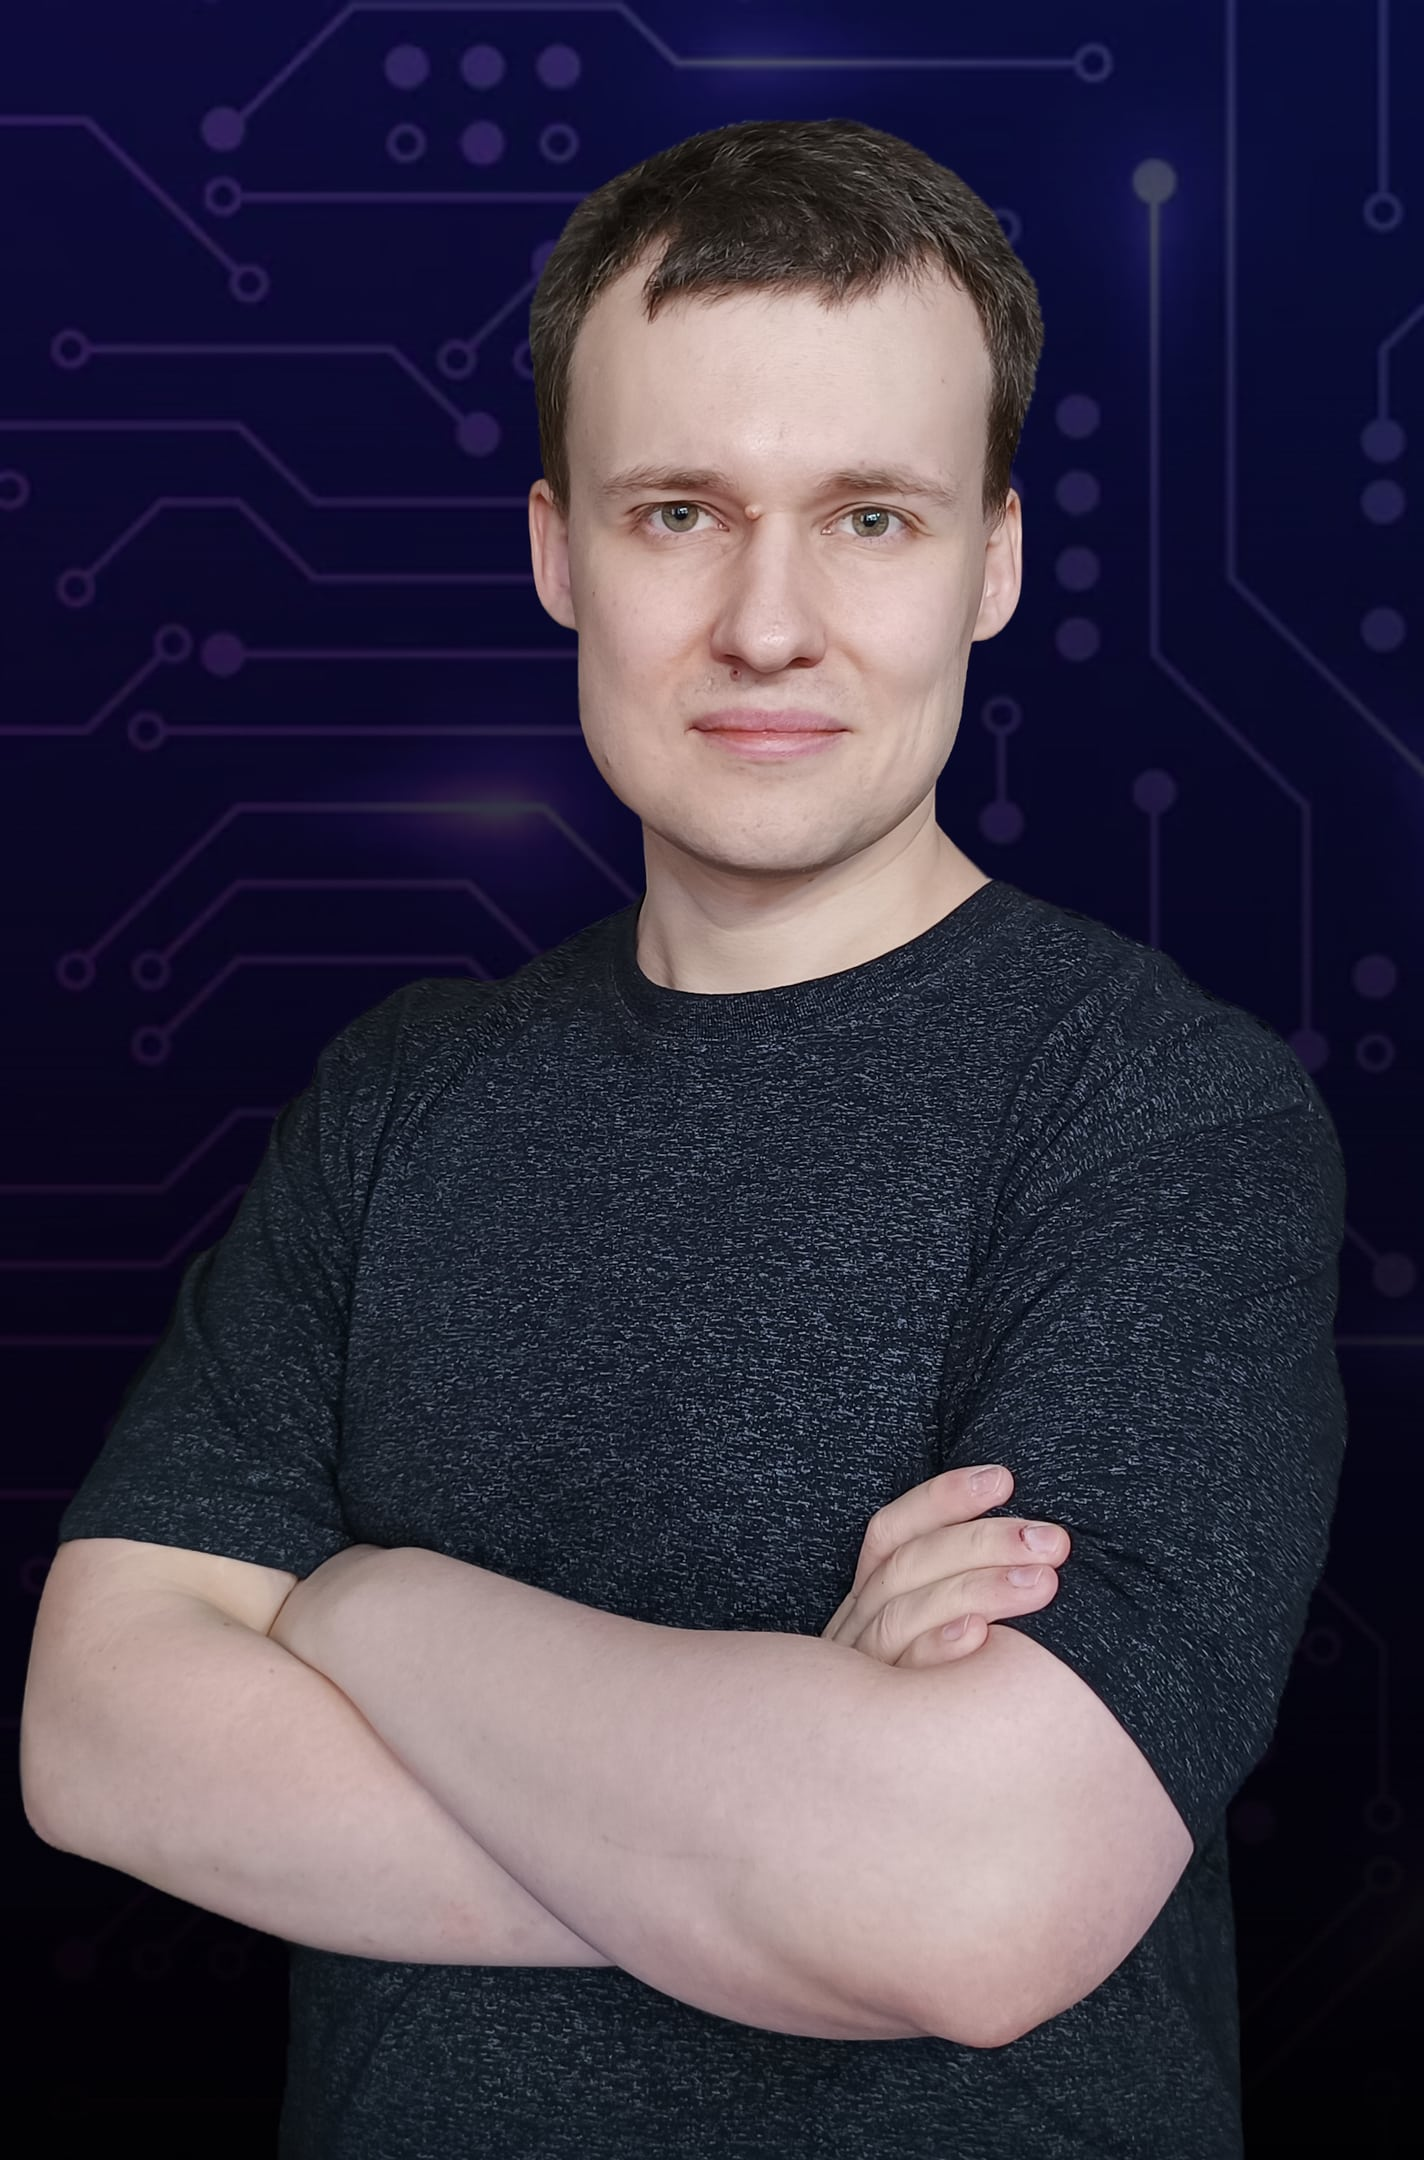
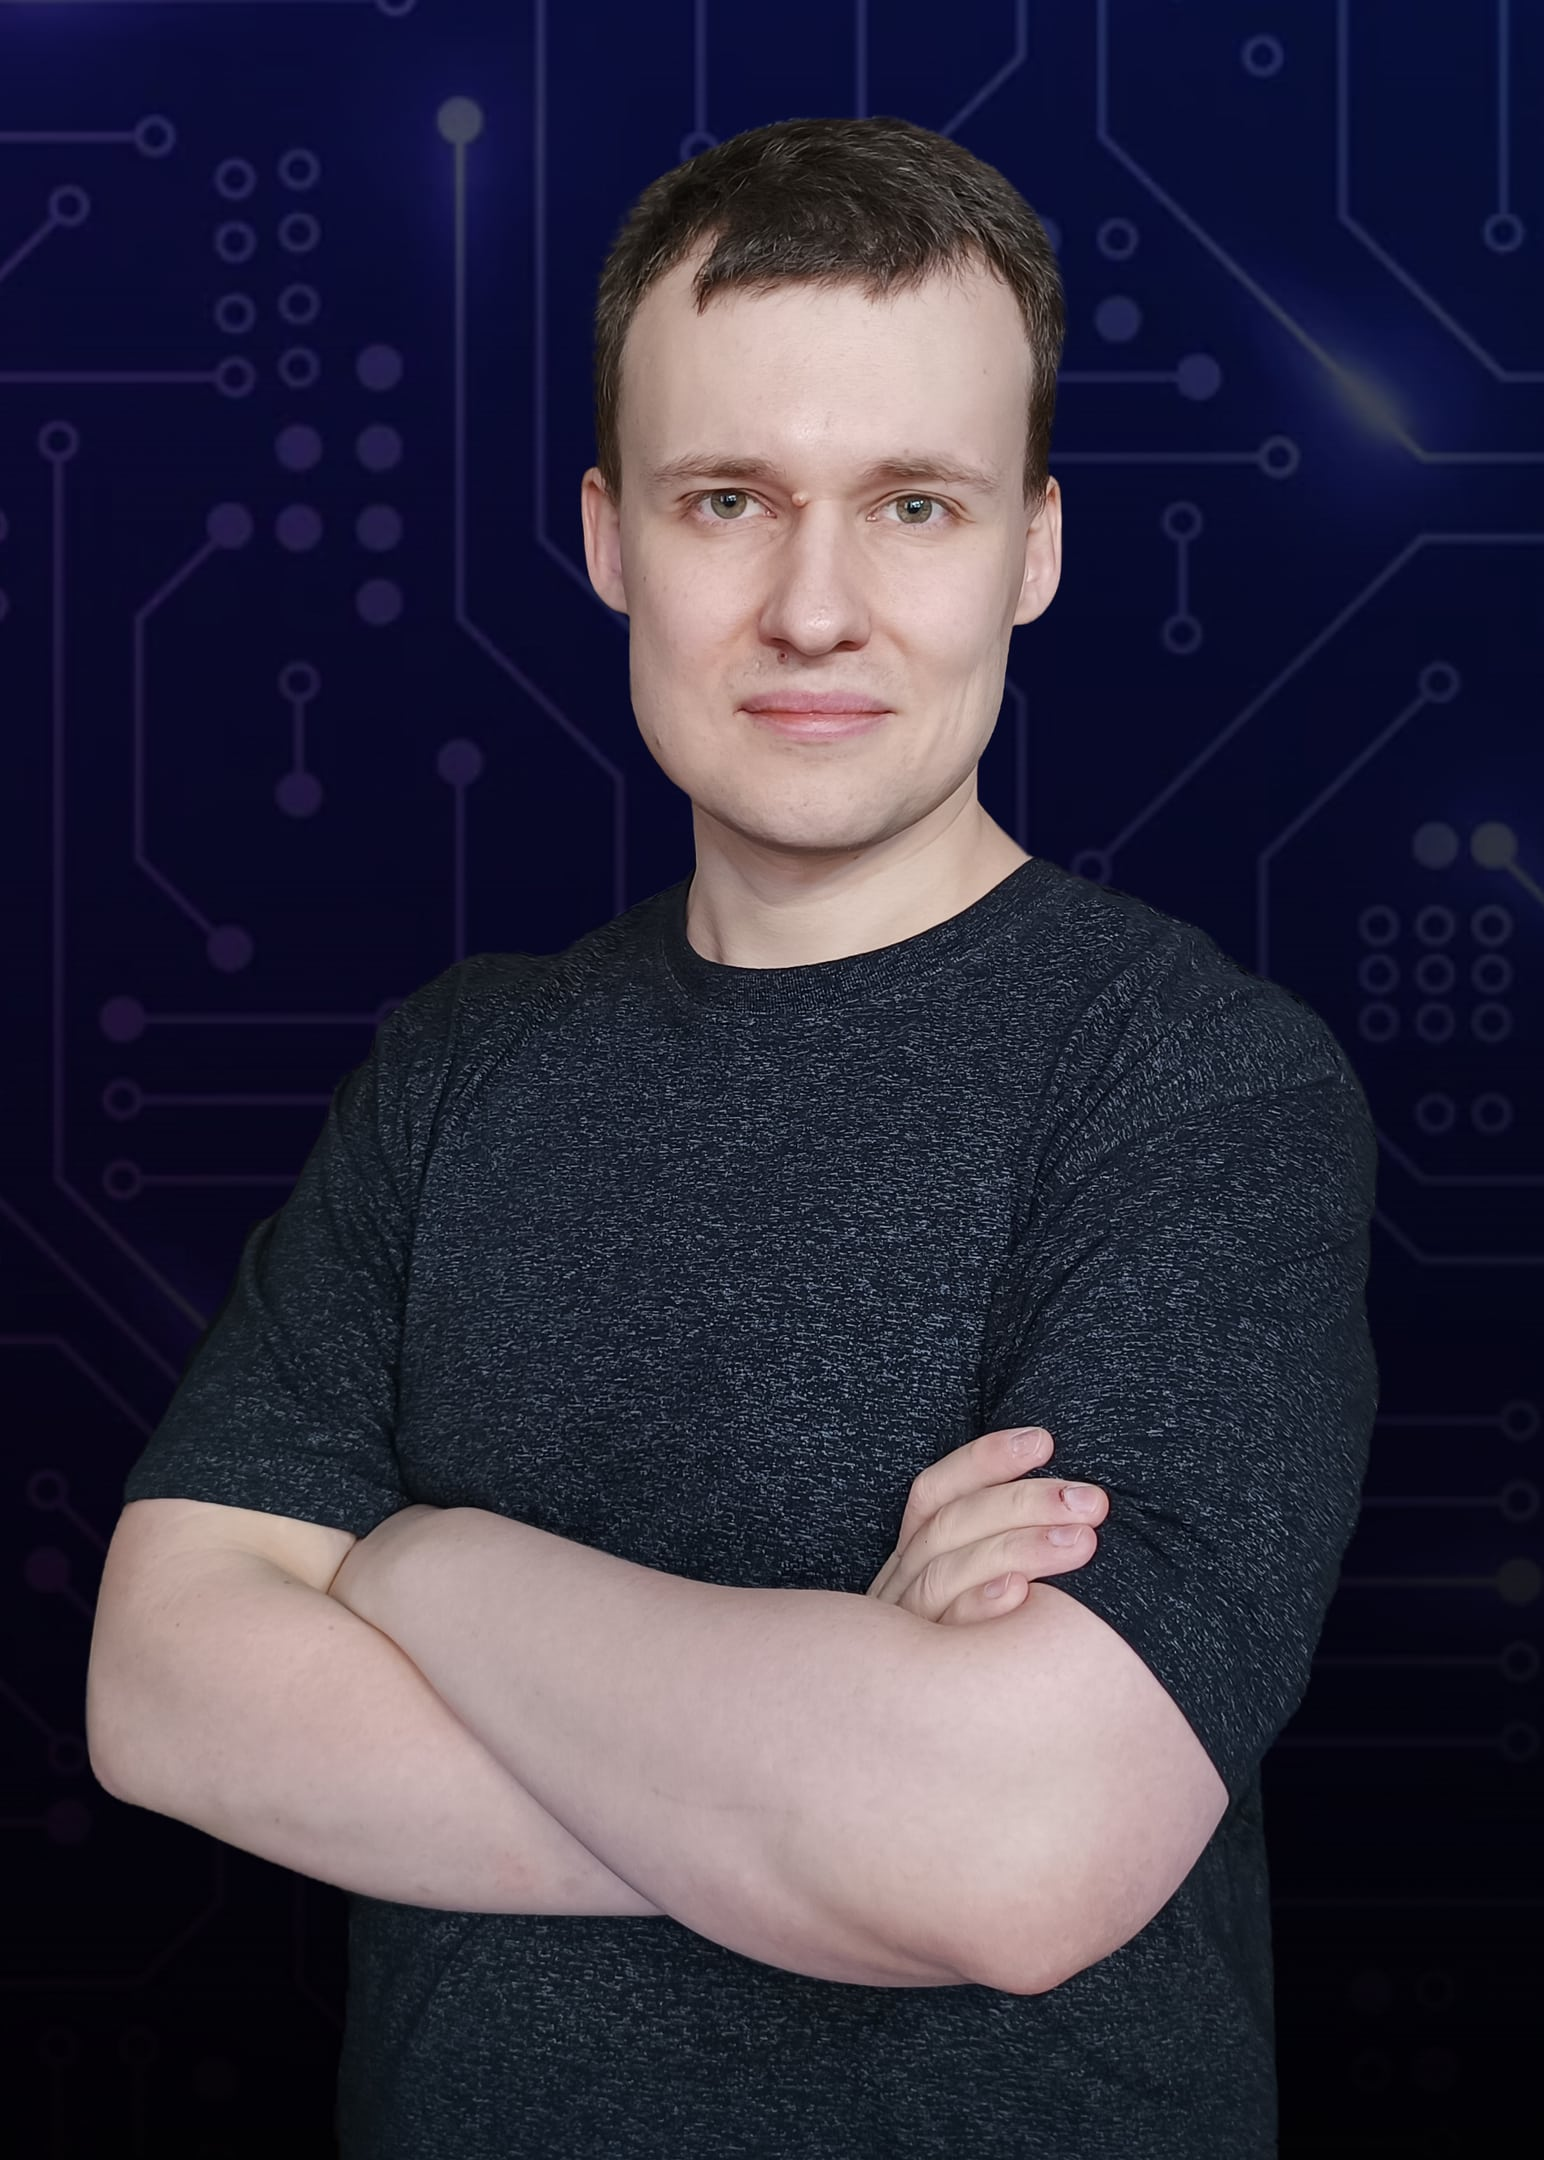
landing page hero owner has been improved

diff --git a/components/site/LandingPage/HeroAlt.tsx b/components/site/LandingPage/HeroAlt.tsx
@@ -73,14 +73,9 @@ export default function Hero({ article }: Props) {
     process.env.NEXT_PUBLIC_SITE_NAME || "Мастер-в-Балашихе.РФ"
   } 143912`;
   const indexCanonicalUrl = useMemo(() => getCanonicalUrl("/"), []);
-  const image: CMS.Image = useMemo(() => {
-    const url = "/images/master_v_balashihe.jpg";
-    return makeImageType({
-      url,
-      width: 1197,
-      height: 1600,
-    });
-  }, []);
+  if (!article?.image?.canonicalUrl) {
+    throw new Error("No article.image.canonicalUrl for link.");
+  }
   return (
     <>
       <Head>
@@ -95,9 +90,15 @@ export default function Hero({ article }: Props) {
 Оставьте заявку и я перезвоню Вам в течение 30 минут,
 работаю в городе Балашиха и Москве`}
         />
-        <meta property="og:image" content={image.canonicalUrl} />
-        <meta property="og:image:width" content={image.width.toString()} />
-        <meta property="og:image:height" content={image.height.toString()} />
+        <meta property="og:image" content={article.image.canonicalUrl} />
+        <meta
+          property="og:image:width"
+          content={article.image.width.toString()}
+        />
+        <meta
+          property="og:image:height"
+          content={article.image.height.toString()}
+        />
       </Head>
       <Container
         maxWidth={false}
@@ -127,7 +128,7 @@ export default function Hero({ article }: Props) {
         ></Box>
         <Box
           sx={{
-            backgroundImage: `linear-gradient(to bottom, rgba(22, 14, 0, 0.7), rgba(1,1,1,1))`,
+            backgroundImage: `linear-gradient(to bottom, rgba(49, 18, 0, 0.7), rgba(1,1,1,1))`,
             willChange: "transform",
             height: "100%",
             width: "100%",
@@ -190,7 +191,17 @@ export default function Hero({ article }: Props) {
                 variant="h1"
                 component="h1"
               >
-                <Box>Мастер</Box>
+                <Box
+                  component={"span"}
+                  sx={{
+                    px: "12px",
+                    py: { xs: "7px", sm: "0" },
+                    background: (theme) => `#69000080`,
+                    borderRadius: "6px",
+                  }}
+                >
+                  Мастер
+                </Box>
                 <Box>на дом или в офис </Box>
                 <Box
                   sx={{
@@ -202,7 +213,7 @@ export default function Hero({ article }: Props) {
                     sx={{
                       px: "12px",
                       py: { xs: "7px", sm: "0" },
-                      background: (theme) => `${theme.palette.primary.main}80`,
+                      background: (theme) => `#69000080`,
                       borderRadius: "6px",
                     }}
                   >
@@ -233,6 +244,9 @@ export default function Hero({ article }: Props) {
               itemProp="description"
               sx={{
                 textAlign: { xs: "center", sm: "center", md: "left" },
+                "&&": {
+                  marginTop: { xs: 0, md: undefined },
+                },
               }}
             >
               {`Меня зовут Дмитрий, 
@@ -396,11 +410,15 @@ export default function Hero({ article }: Props) {
               },
             }}
           >
-            <Link itemProp="image" href={image.canonicalUrl} target="_blank">
+            <Link
+              itemProp="image"
+              href={article.image.canonicalUrl}
+              target="_blank"
+            >
               <Image
                 alt="Информационные системы и технологии"
                 width={600}
-                height={909}
+                height={902}
                 quality={90}
                 loading={"eager"}
                 src="/images/computer_master_landing_balashiha.webp"

diff --git a/pages/index.tsx b/pages/index.tsx
@@ -65,14 +65,14 @@ export const getStaticProps = async (context: GetStaticPropsContext) => {
     absURL: "/",
   });
 
-  const imageUrl = `/images/computer_master_balashikha_hero.webp`;
+  const imageUrl = `/images/master_v_balashihe.jpg`;
   if (article) {
     article.image = {
       ...article.image,
       ...makeImageType({
         url: imageUrl,
-        width: 600,
-        height: 392,
+        width: 1544,
+        height: 2160,
         alt: `Дмитрий, компьютерный мастер в Балашихе, выпускник МГТУ МИРЭА (РТУ МИРЭА)`,
       }),
     };
